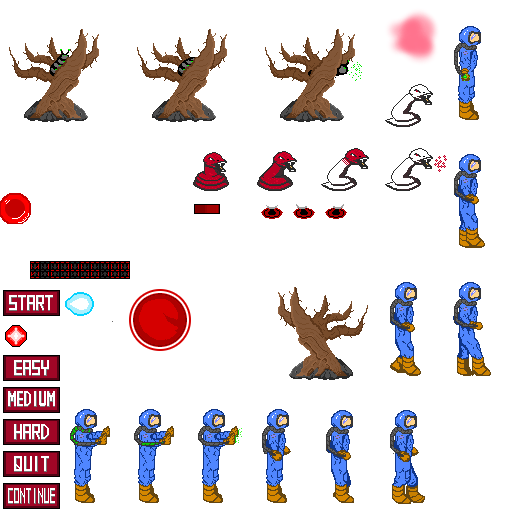
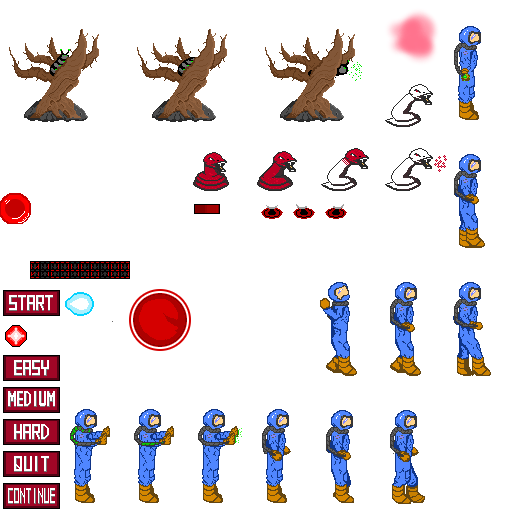
- Se agrego un nuevo sprite para que represente el KD - Se modifico el codigo para que el personaje pierda hp correctamente. - Se modifico el codigo para que el personaje camine cuando hay una transicion.

Changed region(s): [[0.5312, 0.5312, 0.7188, 0.75]]

diff --git a/app/src/main/java/com/jgame/elements/MainCharacter.java b/app/src/main/java/com/jgame/elements/MainCharacter.java
@@ -173,7 +173,7 @@ public class MainCharacter extends GameCharacter {
 
     @Override
     public TextureDrawer.TextureData getCurrentTexture(){
-        if(state == CharacterState.MOVING_FORWARD || state == CharacterState.MOVING_BACKWARDS)
+        if(state == CharacterState.MOVING_FORWARD || state == CharacterState.MOVING_BACKWARDS || state == CharacterState.ADVANCING)
             return WALKING_ANIMATION.getCurrentSprite();
 
         if(state == CharacterState.ABSORBING)
@@ -191,46 +191,49 @@ public class MainCharacter extends GameCharacter {
         if (state == CharacterState.IDLE) {
             adjustToFoePosition(foe);
             WALKING_ANIMATION.reset();
-            return Event.NONE;
-        } if (state == CharacterState.MOVING_FORWARD) {
+        } else if (state == CharacterState.MOVING_FORWARD) {
             adjustToFoePosition(foe);
             if(position.x + MOVING_SPEED < maxX) {
                 move(RIGHT_MOVE_SPEED);
                 WALKING_ANIMATION.updateFrame();
             }
-        } if (state == CharacterState.MOVING_BACKWARDS) {
+        } else if (state == CharacterState.MOVING_BACKWARDS) {
             adjustToFoePosition(foe);
             if(position.x - MOVING_SPEED > minX) {
                 move(LEFT_MOVE_SPEED);
                 WALKING_ANIMATION.updateFrame();
             }
-        } if(state == CharacterState.INPUT_A){
+        } else if(state == CharacterState.INPUT_A){
             //Si se detecta colision con el input, significa que absorbio energia
             if (e == Event.HIT){
                 hp = INITIAL_HP;
                 state = CharacterState.ABSORBING;
                 ABSORBING_ANIMATION.reset();
-                return Event.NONE;
             }
 
             moveA.update();
             if(moveA.completed()){
                 this.state = CharacterState.IDLE;
             }
-        } if (state == CharacterState.ABSORBING){
+        } else if (state == CharacterState.ABSORBING){
             ABSORBING_ANIMATION.updateFrame();
             if(ABSORBING_ANIMATION.completed()) {
                 state = CharacterState.ADVANCING;
                 baseX.set(1,0);
+                WALKING_ANIMATION.reset();
             }
+        } else if (state == CharacterState.ADVANCING) {
+            //Este estado no debe de provocar que el personaje pierda hp
+            WALKING_ANIMATION.updateFrame();
+            return Event.NONE;
         }
 
-        if(state == CharacterState.INPUT_B){
+        /*if(state == CharacterState.INPUT_B){
             /*MOVE_B_COUNTER.accum(timeDifference);
             if(MOVE_B_COUNTER.completed()){
                 this.state = CharacterState.IDLE;
-            }*/
-        }
+            }
+        }*/
 
         if(hp < 0)
             state = CharacterState.DEAD;
